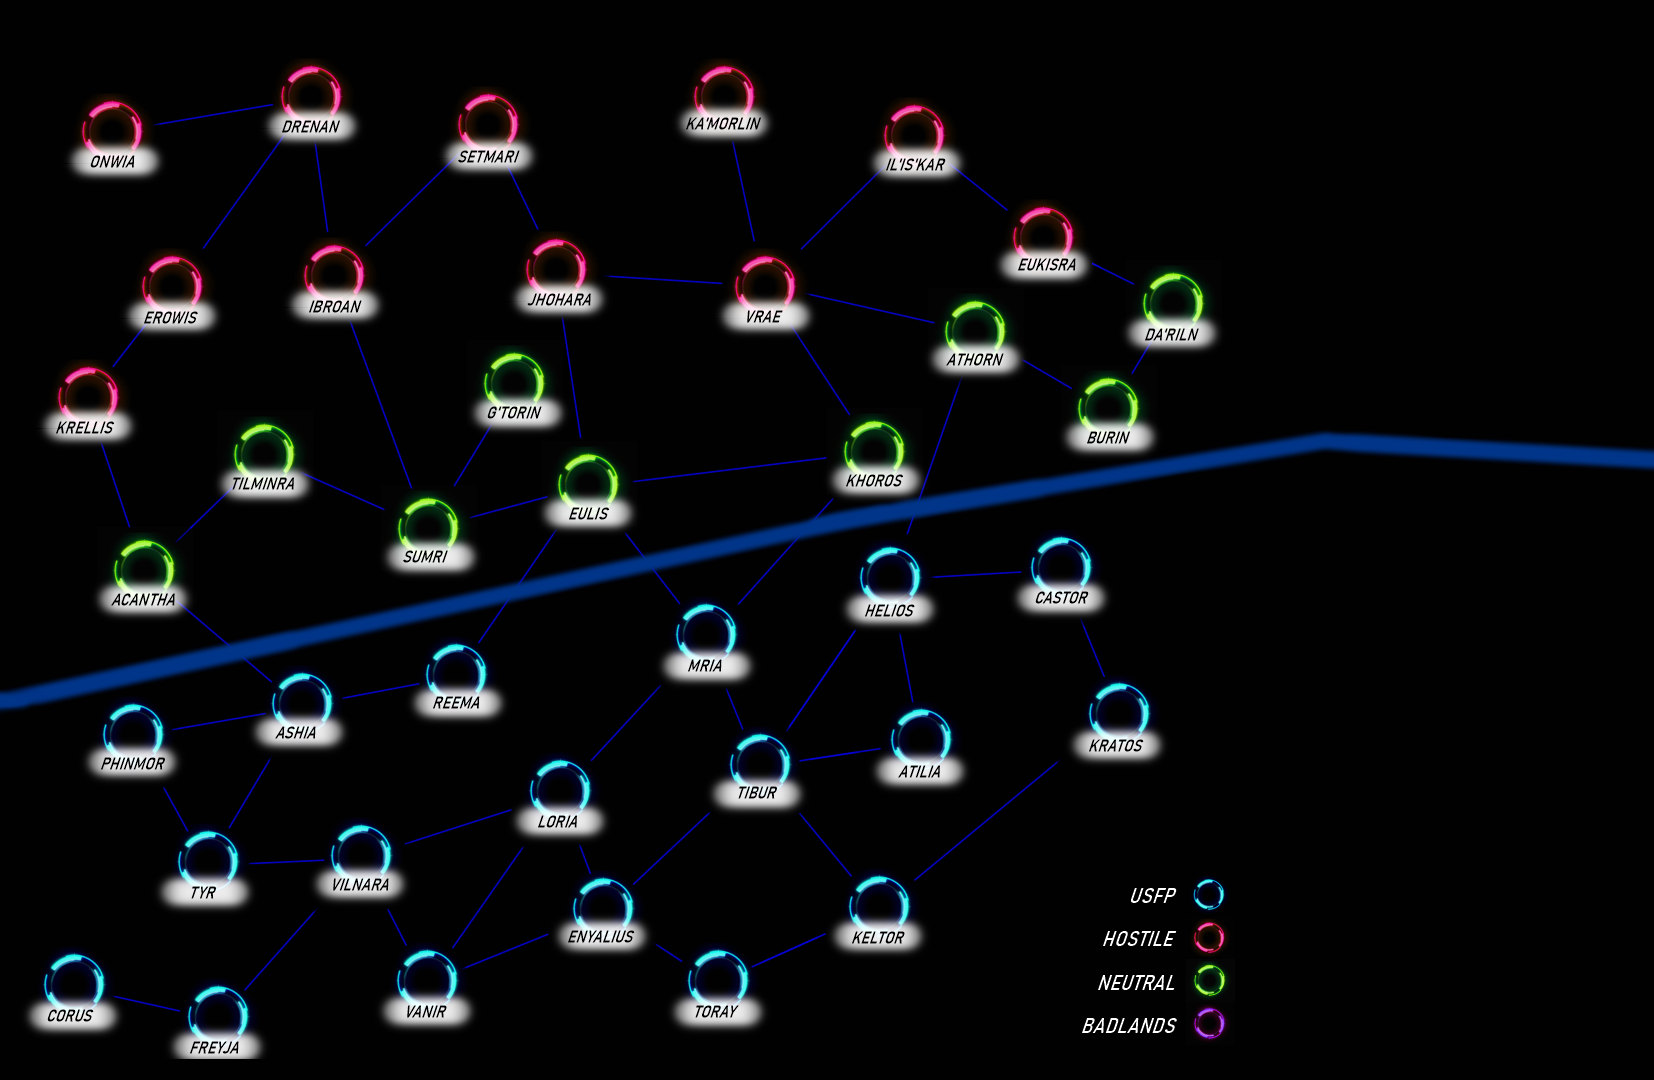
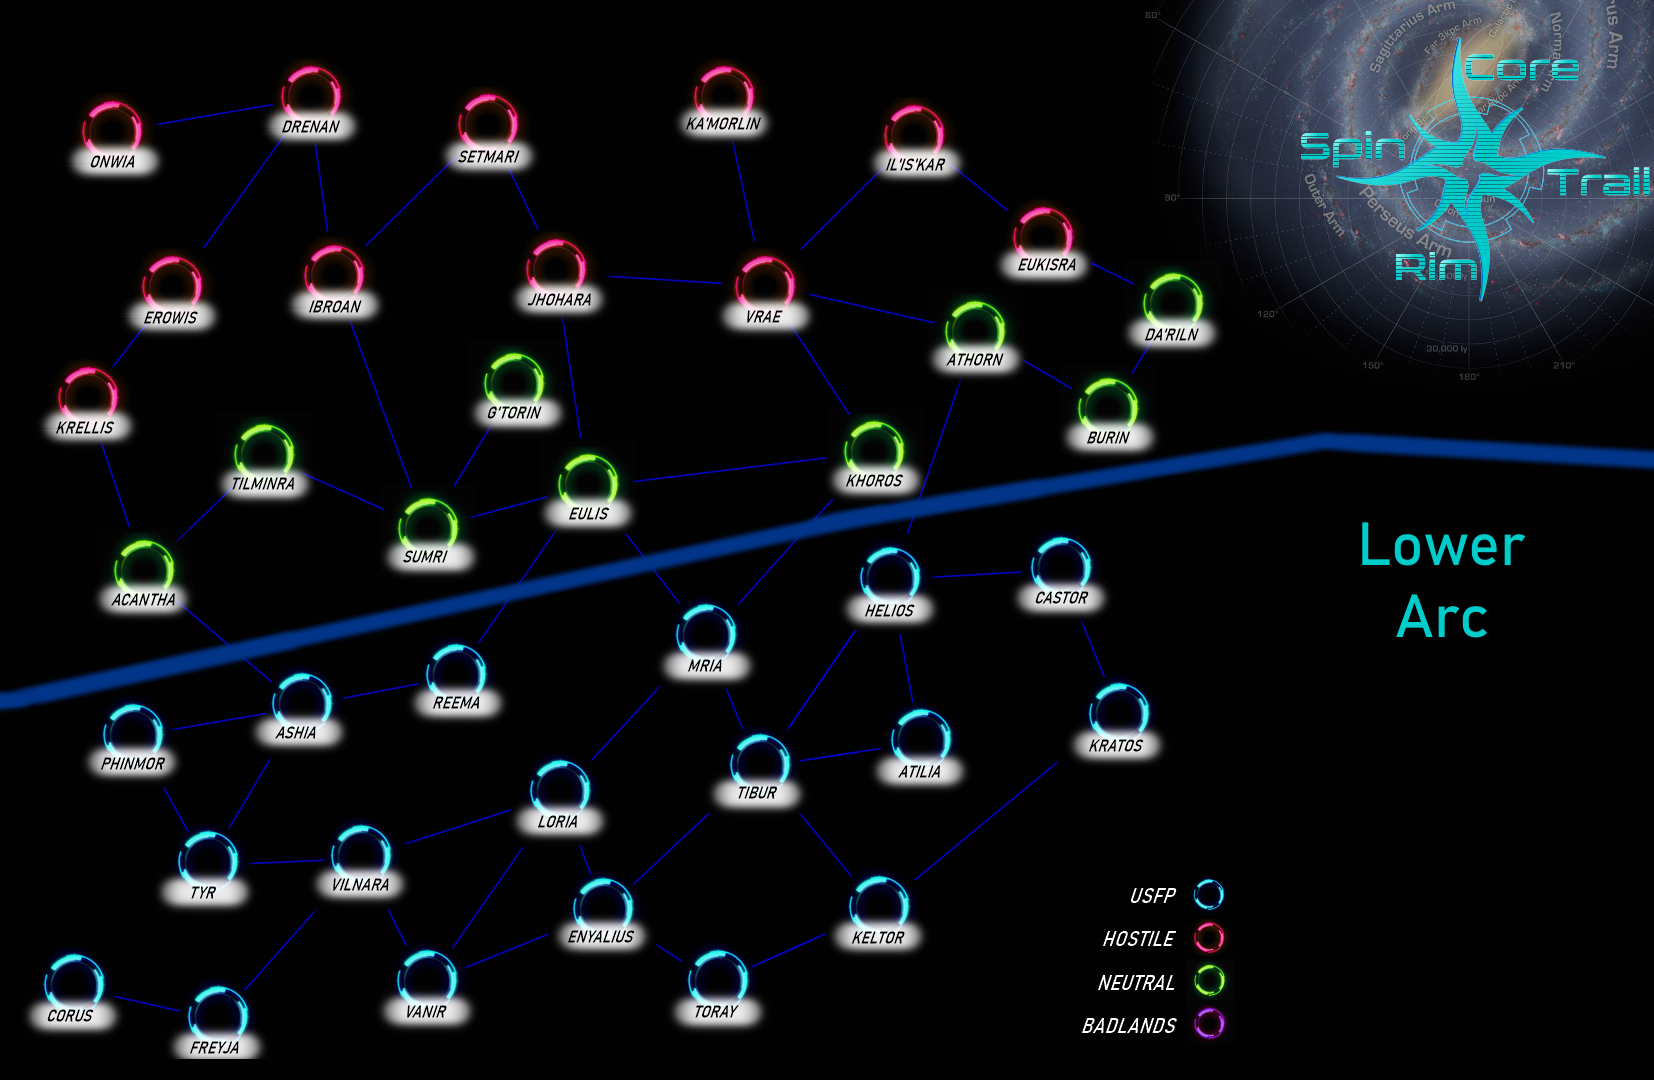
New sectors and arc map graphics

Changed region(s): [[0.7092, 0.0, 1.0, 0.3361], [0.8017, 0.4889, 0.925, 0.5194], [0.8325, 0.55, 0.8942, 0.6111]]

diff --git a/Nav/sectorEntities.php b/Nav/sectorEntities.php
@@ -27,6 +27,10 @@
 			$entity['description'] = "Science Station Post";
 		} else if ($entity['type'] == "F") {
 			$entity['description'] = "Refinery";
+		} else if ($entity['type'] == "B") {
+			$entity['description'] = "Sensor Buoy";
+		} else if ($entity['type'] == "H") {
+			$entity['description'] = "Gravitational Singularity";
 		} else if (startsWith($entity['name'], "BH")) {
 			$entity['description'] = "Gravitational Singularity";
 		} else if (startsWith($entity['name'], "WP")) {
@@ -66,7 +70,7 @@
 
 		$entity['loc'] = trim($entity['loc']);
 		if (isEmpty($sub) || $entity['loc'] == $sub) {
-			if ($entity['type'] == "S" || $entity['type'] == "R" || $entity['type'] == "I" || $entity['type'] == "M" || $entity['type'] == "D" || $entity['type'] == "C") {
+			if ($entity['type'] == "S" || $entity['type'] == "R" || $entity['type'] == "I" || $entity['type'] == "M" || $entity['type'] == "D" || $entity['type'] == "V" || $entity['type'] == "C") {
 				$entStations[$entity['name']] = $entity;
 			} else if ($entity['type'] == "G") {
 				$entGates[$entity['name']] = $entity;

diff --git a/Nav/index.php b/Nav/index.php
@@ -455,7 +455,7 @@ window.onclick = function(event) {
 					<img id="gateNet" onClick="systemClick(event)" style="height: 100%; width: 100%; object-fit: contain;  position: absolute; bottom: 0px; right: 0px;" src="<?=$gateImg?>"/>
 				</div>
 				<div style="position:absolute;top:10px;right:20px;">
-					Stellar Cartography <?php if ($classified) {printf("ONI");} else {printf("TSN");}?> 11.0
+					Stellar Cartography <?php if ($classified) {printf("ONI");} else {printf("TSN");}?> 11.1
 				</div><?php
 			}
 		}
